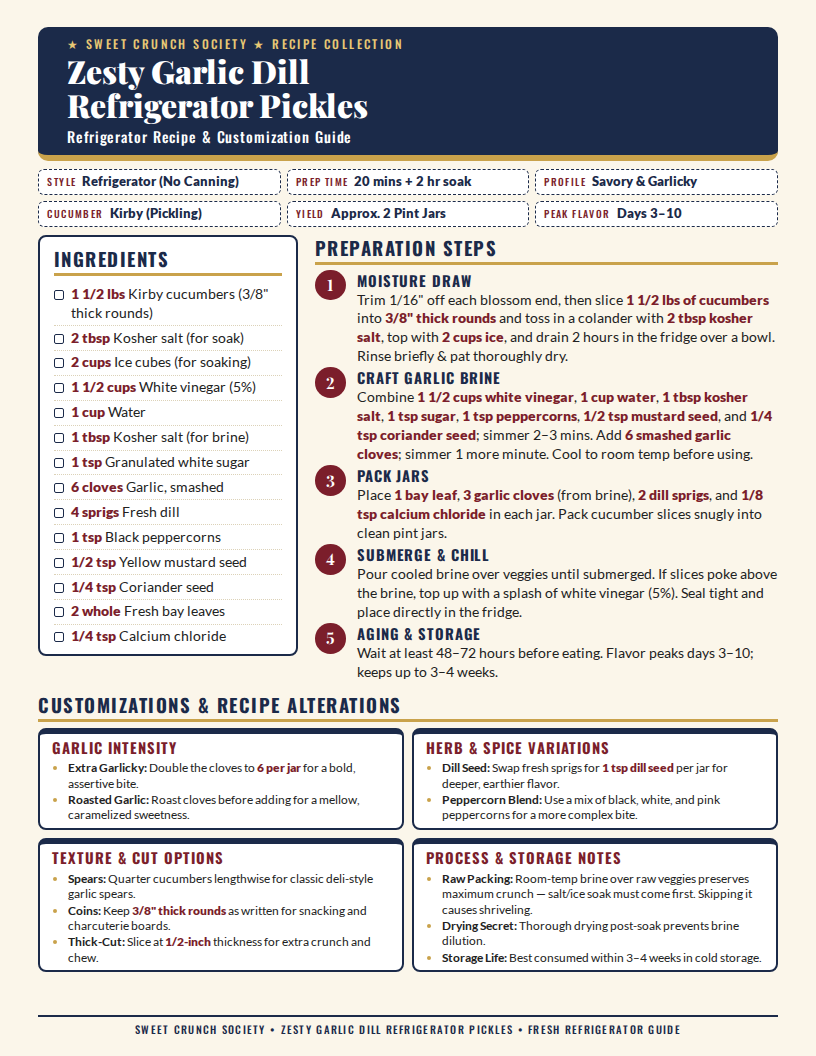
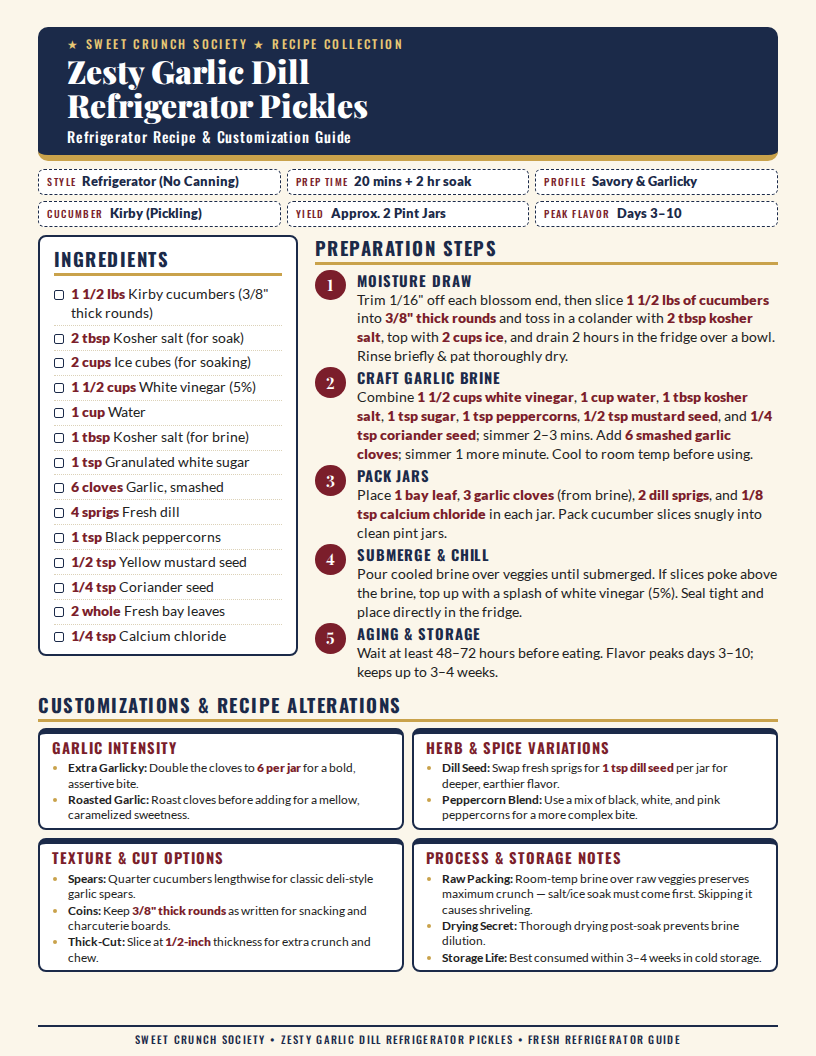
style: add gap between footer line and customization cards
The footer's top border touched the bottom of the cards on the Bread &
Butter sheet. Lower the footer by 0.1in (bottom: 0.2in -> 0.1in) in both
recipe sheets, leaving ~9px of clearance. Regenerated both preview PNGs.

Changed region(s): [[0.1532, 0.9688, 0.8578, 1.0]]

diff --git a/index-zesty.html b/index-zesty.html
@@ -111,7 +111,7 @@
   .card li strong { color: var(--brick); font-weight: 900; } /* inline amounts */
 
   footer {
-    position: absolute; left: 0.4in; right: 0.4in; bottom: 0.2in; text-align: center;
+    position: absolute; left: 0.4in; right: 0.4in; bottom: 0.1in; text-align: center;
     font-family: 'Oswald', sans-serif; letter-spacing: .12em; text-transform: uppercase; font-size: 8pt; color: var(--dill);
     border-top: 2px solid var(--green); padding-top: 5px;
   }

diff --git a/index.html b/index.html
@@ -111,7 +111,7 @@
   .card li strong { color: var(--brick); font-weight: 900; } /* inline amounts */
 
   footer {
-    position: absolute; left: 0.4in; right: 0.4in; bottom: 0.2in; text-align: center;
+    position: absolute; left: 0.4in; right: 0.4in; bottom: 0.1in; text-align: center;
     font-family: 'Oswald', sans-serif; letter-spacing: .12em; text-transform: uppercase; font-size: 8pt; color: var(--dill);
     border-top: 2px solid var(--green); padding-top: 5px;
   }
